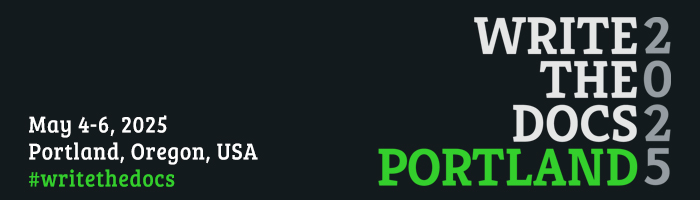
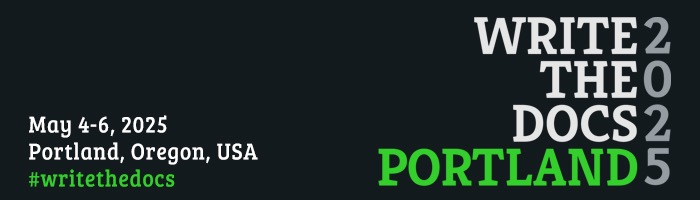
Standardize conference opengraph images to JPG format
- Convert portland-2023, portland-2025, and portland-2026 PNG images to JPG
- Update all conference documentation references from .png to .jpg
- Standardize opengraph image naming to {{shortcode}}-{{year}}-opengraph.jpg
- Ensures JPG is the single standard format across all conferences
- Affects all conferences: atlantic, australia, berlin, kenya, and portland

diff --git a/docs/conf/berlin/2025/index.rst b/docs/conf/berlin/2025/index.rst
@@ -1,6 +1,6 @@
 :template: {{year}}/index.html
 :banner: _static/conf/images/headers/portland-2025-small-group.jpg
-:og:image: _static/conf/images/headers/{{shortcode}}-{{year}}-opengraph.png
+:og:image: _static/conf/images/headers/{{shortcode}}-{{year}}-opengraph.jpg
 
 :orphan:
 

diff --git a/docs/conf/portland/2025/index.rst b/docs/conf/portland/2025/index.rst
@@ -1,6 +1,6 @@
 :template: {{year}}/index.html
 :banner: _static/conf/images/headers/portland-2025-small-group.jpg
-:og:image: _static/conf/images/headers/{{shortcode}}-{{year}}-opengraph.png
+:og:image: _static/conf/images/headers/{{shortcode}}-{{year}}-opengraph.jpg
 
 :orphan:
 

diff --git a/docs/conf/portland/2026/index.rst b/docs/conf/portland/2026/index.rst
@@ -1,6 +1,6 @@
 :template: 2026/index.html
 :banner: _static/conf/images/headers/portland-2026-small-group.jpg
-:og:image: _static/conf/images/headers/{{shortcode}}-{{year}}-opengraph.png
+:og:image: _static/conf/images/headers/{{shortcode}}-{{year}}-opengraph.jpg
 
 :orphan:
 

diff --git a/docs/conf/kenya/2025/index.rst b/docs/conf/kenya/2025/index.rst
@@ -1,6 +1,6 @@
 :template: {{year}}/index.html
 :banner: _static/conf/images/headers/kenya-2025-group.jpg
-:og:image: _static/conf/images/headers/{{shortcode}}-{{year}}-opengraph.png
+:og:image: _static/conf/images/headers/{{shortcode}}-{{year}}-opengraph.jpg
 
 :orphan:
 

diff --git a/docs/conf/portland/2026/news/welcome.rst b/docs/conf/portland/2026/news/welcome.rst
@@ -1,5 +1,5 @@
 :template: {{year}}/generic.html
-:og:image: _static/conf/images/headers/{{shortcode}}-{{year}}-opengraph.png
+:og:image: _static/conf/images/headers/{{shortcode}}-{{year}}-opengraph.jpg
 
 .. post:: September 23, 2025
    :tags: {{shortcode}}-{{year}}

diff --git a/docs/conf/portland/2025/news/welcome.rst b/docs/conf/portland/2025/news/welcome.rst
@@ -1,5 +1,5 @@
 :template: {{year}}/generic.html
-:og:image: _static/conf/images/headers/{{shortcode}}-{{year}}-opengraph.png
+:og:image: _static/conf/images/headers/{{shortcode}}-{{year}}-opengraph.jpg
 
 .. post:: June 24, 2024
    :tags: {{shortcode}}-{{year}}

diff --git a/docs/conf/berlin/2025/news/welcome.rst b/docs/conf/berlin/2025/news/welcome.rst
@@ -1,5 +1,5 @@
 :template: {{year}}/generic.html
-:og:image: _static/conf/images/headers/{{shortcode}}-{{year}}-opengraph.png
+:og:image: _static/conf/images/headers/{{shortcode}}-{{year}}-opengraph.jpg
 
 .. post:: May 5, 2025
    :tags: {{shortcode}}-{{year}}

diff --git a/docs/conf/kenya/2025/news/welcome.md b/docs/conf/kenya/2025/news/welcome.md
@@ -1,6 +1,6 @@
 ---
 template: {{year}}/generic.html
-og:image: _static/conf/images/headers/{{shortcode}}-{{year}}-opengraph.png
+og:image: _static/conf/images/headers/{{shortcode}}-{{year}}-opengraph.jpg
 ---
 
 ```{eval-rst}
